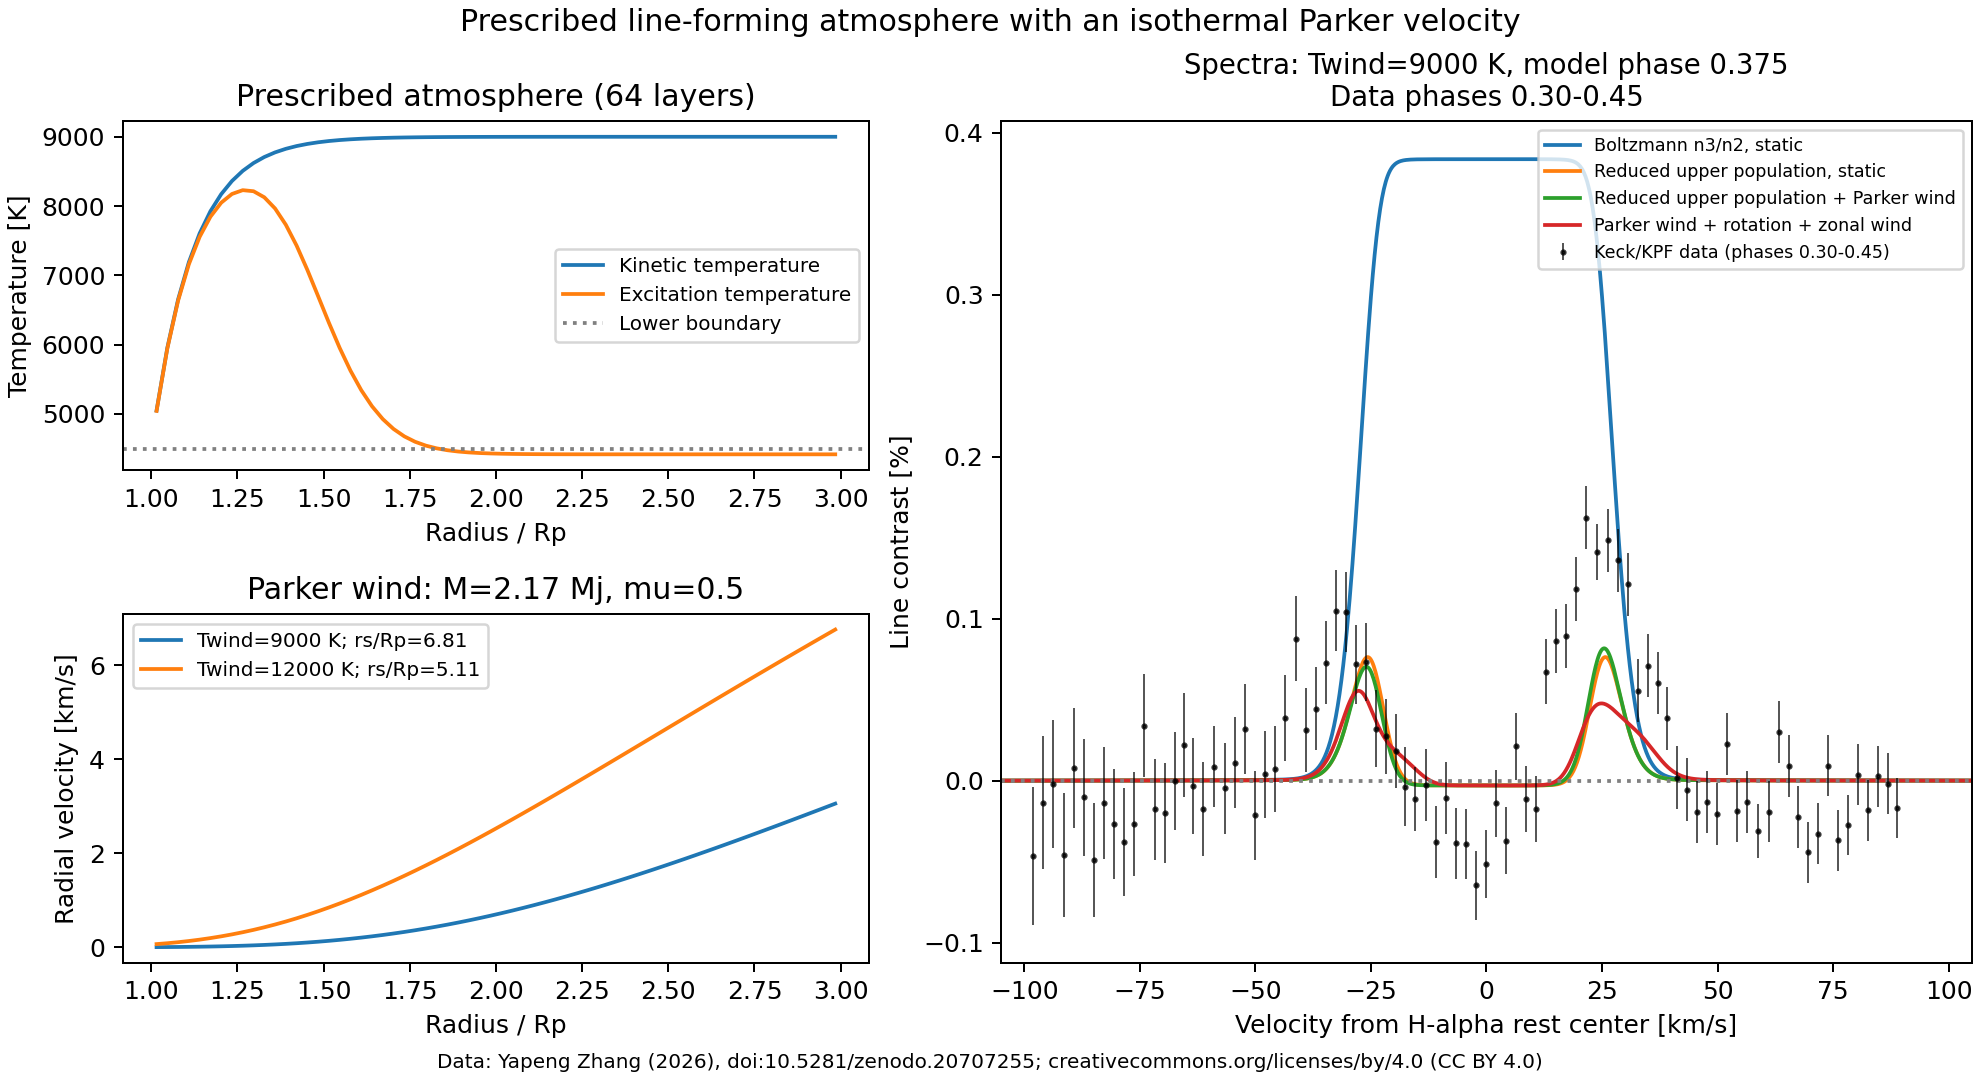
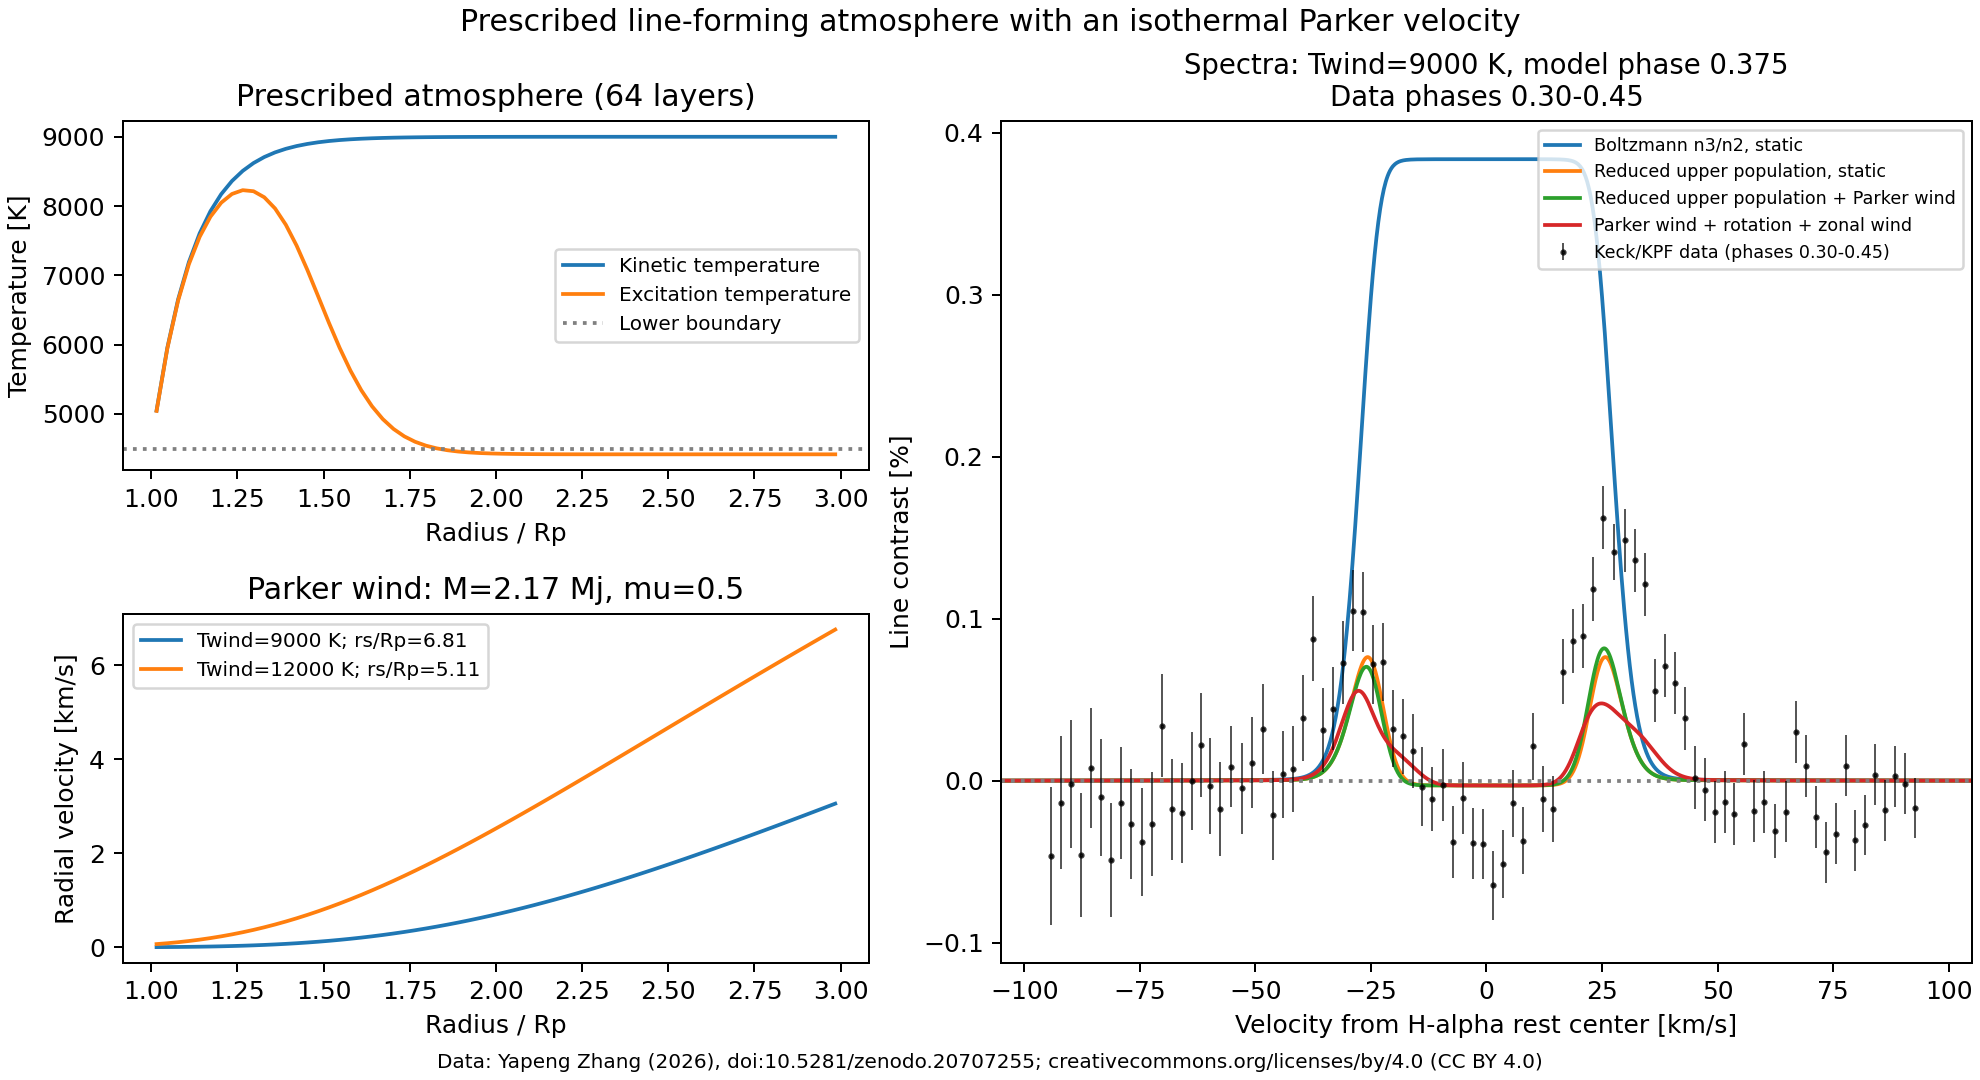
Use the reference H-alpha rest wavelength

diff --git a/hydrogen_forward.py b/hydrogen_forward.py
@@ -87,7 +87,7 @@ class HydrogenForwardModel:
         if not jax.config.x64_enabled:
             raise ValueError("Enable jax_enable_x64 before constructing the model.")
 
-        self.adb = AdbHydrogen(n_upper_max=3)
+        self.adb = AdbHydrogen(n_upper_max=3, wavelength_model="reference")
         self.line_center_cm = float(self.adb.nu_lines[0])
         self.wavenumber_cm = self.line_center_cm * np.exp(
             np.linspace(-120 / c, 120 / c, nnu)

diff --git a/compare_manual.py b/compare_manual.py
@@ -66,6 +66,7 @@ def main():
     }
     report = {
         "model_phase": 0.375, "observation_phase_range": [0.30, 0.45],
+        "rest_wavelength_angstrom": 1e8 / original_model.line_center_cm,
         "velocity_model": "isothermal transonic Parker wind (no tides)",
         "planet_mass_mj": original_model.planet_mass_mj,
         "original": {"temperature_top_k": original_model.temperature_top_k, **ORIGINAL_PARAMETERS},

diff --git a/README.md b/README.md
@@ -7,8 +7,10 @@ manual parameter choices are described in the pull request.
 ## Setup
 
 Use Python 3.10+ and an ExoJAX checkout containing
-[PR #833](https://github.com/HajimeKawahara/exojax/pull/833)
-(tested against commit `a0b3fba805d7f7d7fb6ef9adc2370f225d13093b`).
+[PR #833](https://github.com/HajimeKawahara/exojax/pull/833) and the rest-wavelength
+fix in [PR #835](https://github.com/HajimeKawahara/exojax/pull/835). Tested with
+commit `a0b3fba805d7f7d7fb6ef9adc2370f225d13093b` plus the wavelength change from
+`226304dbf5958327f3d5cf3724ac2ab1d04e0559`.
 With that checkout at `../exojax`, run from this repository:
 
 ```bash
